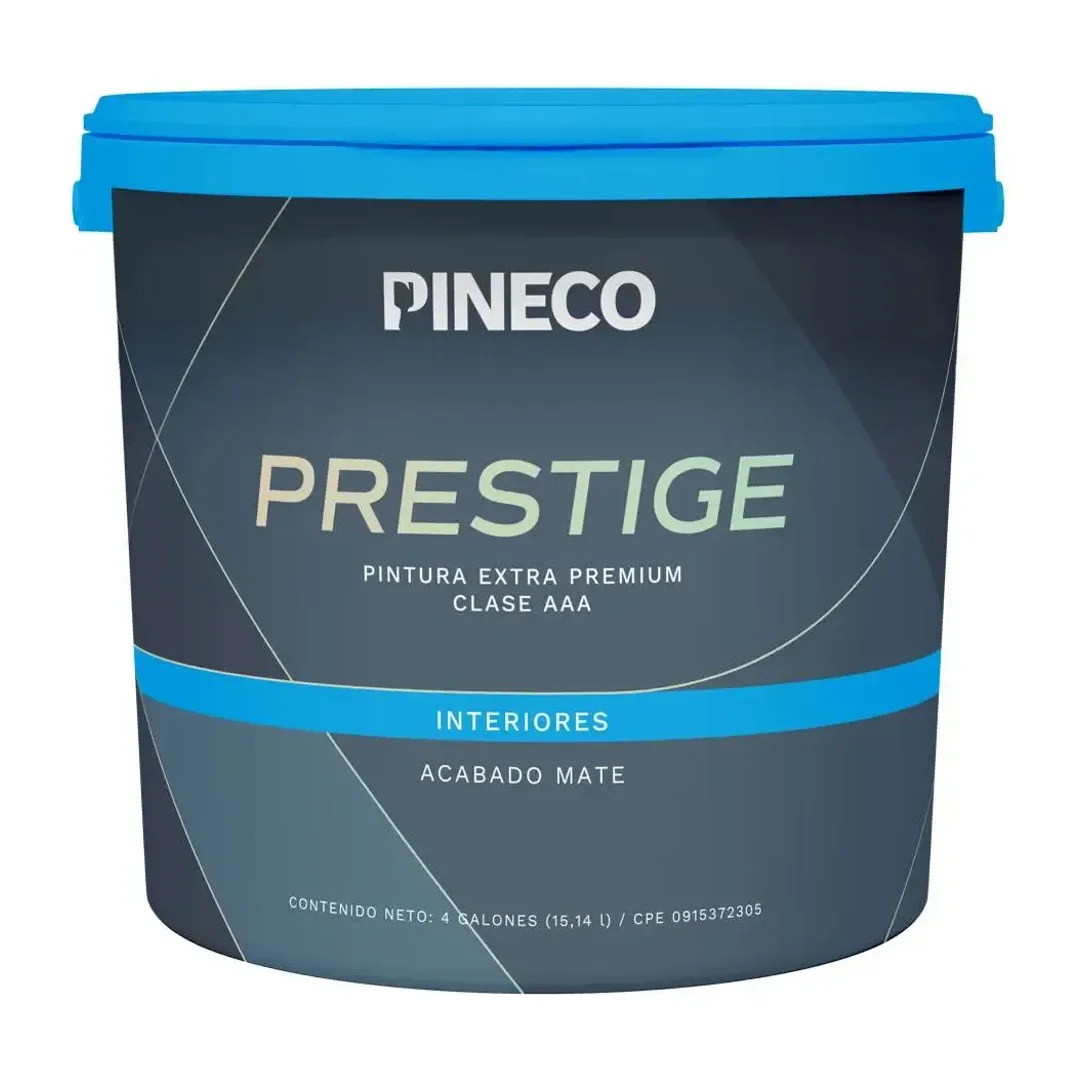
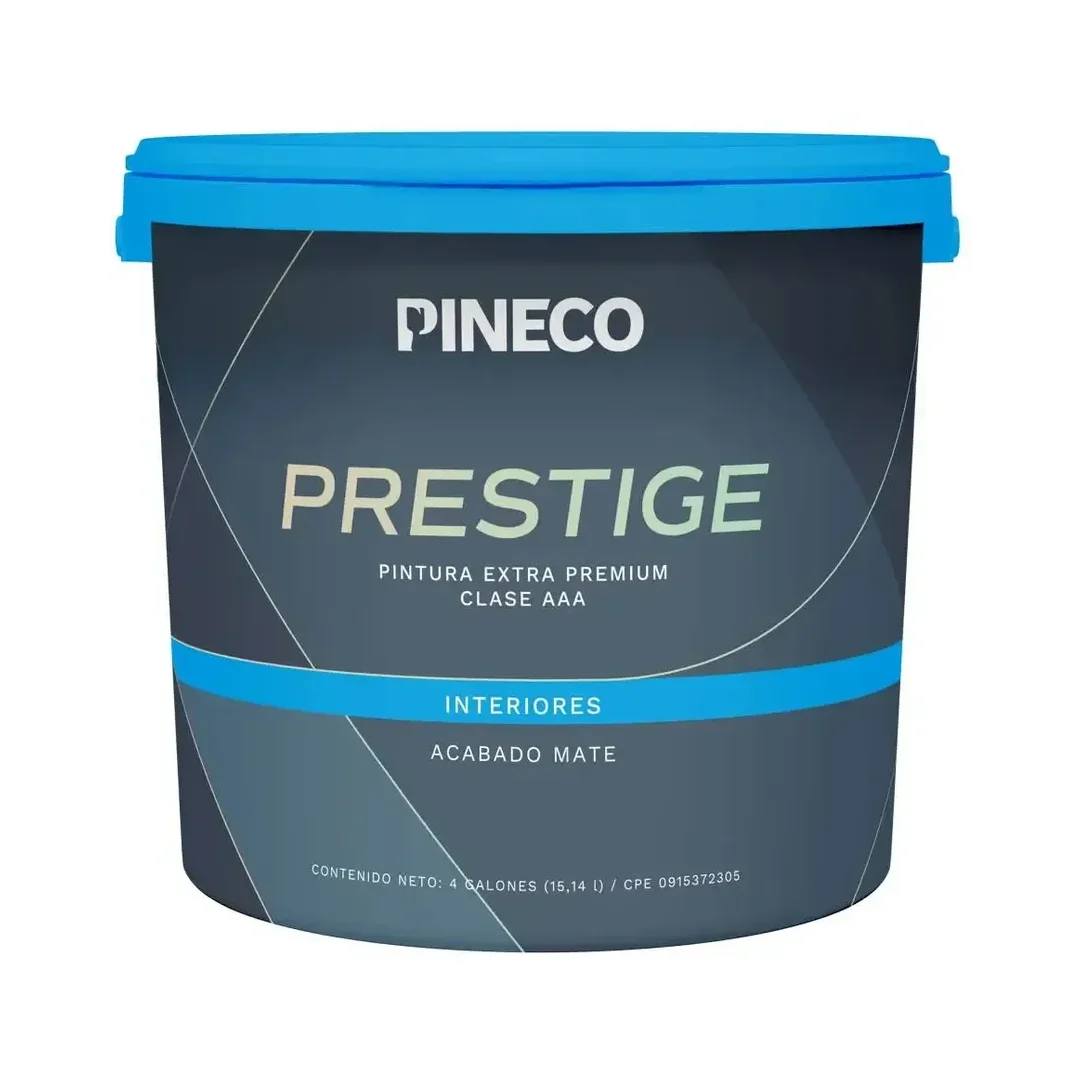
Fotos de pinturas Montana y Collet; Pineco rehechas sin recortes
El commit anterior solo movio las fotos de Pineco a public/productos/pineco/;
este trae el resto:
- Todas las fotos de pinturas rehechas desde las originales: envase completo,
  centrado en 1080x1080 con margen blanco.
- FOTOS_SAINT apunta a public/productos/pineco/ (con el mismo nombre, el
  navegador y el optimizador de imagenes seguian sirviendo la foto cortada).
- Montana y Collet por nombre (fotoPorNombre): Montafix en todos por acabado;
  ABC, Dekoral y AV-2000 solo en galon; Collet Prestigio y Ocasion en galon y tobo.

diff --git a/lib/agrupaciones.ts b/lib/agrupaciones.ts
@@ -22,17 +22,50 @@ export const FOTOS_SAINT: Record<string, string> = {
   "3M0015": "/productos/3M0015.webp", // mopa de pulir azul doble cara 8" 3M
   // Pinturas Pineco: fotos oficiales del empaque, una por producto y tamaño (galón o tobo). Los de 1/4 de galón, el
   // Prestige Gold, el Prestige mate en tobo y el Cerami-K siguen sin foto: no llegó la de su empaque.
-  PINECO014: "/productos/PINECO014.webp", // esmalte 2 en 1 acrílico DTM, galón
-  PINECO015: "/productos/PINECO015.webp", // Pípol clase B, galón
-  PINECO016: "/productos/PINECO016.webp", // Pípol clase B, tobo (4 galones)
-  PINECO011: "/productos/PINECO011.webp", // hidroesmalte Prestige clase A, galón
-  PINECO002: "/productos/PINECO002.webp", // Prestige clase A mate, galón
-  PINECO003: "/productos/PINECO003.webp", // Prestige clase A satinado, galón
-  PINECO001: "/productos/PINECO001.webp", // Prestige clase A mate, tobo (4 galones)
-  PINECO020: "/productos/PINECO020.webp", // esmalte 2 en 1 acrílico DTM, 1/4 de galón
-  PINECO021: "/productos/PINECO021.webp", // Cerami-K brillante, 1/4 de galón
-  PINECO019: "/productos/PINECO011.webp", // hidroesmalte 1/4 de galón: la foto del galón (pedido de persona B)
+  PINECO014: "/productos/pineco/PINECO014.webp", // esmalte 2 en 1 acrílico DTM, galón
+  PINECO015: "/productos/pineco/PINECO015.webp", // Pípol clase B, galón
+  PINECO016: "/productos/pineco/PINECO016.webp", // Pípol clase B, tobo (4 galones)
+  PINECO011: "/productos/pineco/PINECO011.webp", // hidroesmalte Prestige clase A, galón
+  PINECO002: "/productos/pineco/PINECO002.webp", // Prestige clase A mate, galón
+  PINECO003: "/productos/pineco/PINECO003.webp", // Prestige clase A satinado, galón
+  PINECO001: "/productos/pineco/PINECO001.webp", // Prestige clase A mate, tobo (4 galones)
+  PINECO020: "/productos/pineco/PINECO020.webp", // esmalte 2 en 1 acrílico DTM, 1/4 de galón
+  PINECO021: "/productos/pineco/PINECO021.webp", // Cerami-K brillante, 1/4 de galón
+  PINECO019: "/productos/pineco/PINECO011.webp", // hidroesmalte 1/4 de galón: la foto del galón (pedido de persona B)
 };
+
+/**
+ * Fotos de pinturas Montana por su NOMBRE (en Saint, "MONTANA" va solo en la marca): una por línea y acabado.
+ * Montafix: en TODOS los que digan Montafix, por su acabado (sin acabado, la brillante), pedido de persona B. Las demás
+ * líneas (ABC, AV-2000, Dekoral): solo en el galón; el tobo y el 1/4 de galón son otro empaque.
+ */
+const M = "/productos/montana/";
+export function fotoPorNombre(nombre: string, marca: string | null): string | undefined {
+  const n = nombre.toUpperCase();
+  if (/COLLET/i.test(marca ?? "") || /COLLET/.test(n)) return fotoCollet(n);
+  if (!/MONTANA/i.test(marca ?? "") && !/MONTANA/.test(n)) return undefined;
+  if (/MONTAFIX/.test(n)) return `${M}${/SATINAD/.test(n) ? "montafix-satinado" : /\bMATE\b/.test(n) ? "montafix-mate" : "montafix-brillante"}.webp`;
+  const galon = /\bGAL(ON)?\b|\bGALON\b/.test(n) && !/TOBO|CU[NÑ]ETE|1\/4|\b4 ?GAL/.test(n);
+  if (!galon) return undefined;
+  if (/\bABC\b/.test(n)) return `${M}abc-mate.webp`;
+  if (/DEKORAL/.test(n)) return `${M}${/SATINAD/.test(n) ? "dekoral-satinado" : "dekoral-mate"}.webp`;
+  if (/AV-? ?2000/.test(n)) {
+    if (/BIO/.test(n)) return `${M}av2000-bioprotecto.webp`;
+    if (/SEDA/.test(n)) return `${M}av2000-brillo-de-seda.webp`;
+    if (/\bEXT/.test(n)) return `${M}av2000-exterior-mate.webp`;
+    if (/\bINT/.test(n)) return `${M}av2000-interior-mate.webp`;
+  }
+  return undefined;
+}
+
+/** Collet: Blanco Prestigio (tipo A) y Blanco Ocasión (tipo B), cada uno en galón o en tobo. El 1/4 de galón no lleva foto. */
+function fotoCollet(n: string): string | undefined {
+  const linea = /PRESTIG/.test(n) ? "prestigio" : /OCASI/.test(n) ? "ocasion" : null;
+  if (!linea || /1\/4/.test(n)) return undefined;
+  if (/TOBO|CU[NÑ]ETE|PAILA|\b[45] ?GAL/.test(n)) return `/productos/collet/${linea}-tobo.webp`;
+  if (/\bGAL(ON)?\b/.test(n)) return `/productos/collet/${linea}-galon.webp`;
+  return undefined;
+}
 
 /** Cómo se dividen las medidas en el selector: milímetros/pulgadas, encastre del dado, o una sección propia que da la
  * regla de cada producto ("Punta redonda", "Rosca fina NF", 'Diámetro 1/4"'…). */
@@ -285,7 +318,7 @@ export function agrupar(lista: Producto[]): {
   const productos = lista.map((p) => {
     const reemplazo = reemplazos.get(p.id);
     if (reemplazo) return reemplazo;
-    const foto = FOTOS_SAINT[p.id];
+    const foto = FOTOS_SAINT[p.id] ?? fotoPorNombre(p.nombre, p.marca);
     return foto && !p.imagen ? { ...p, imagen: foto } : p;
   });
 

diff --git a/lib/__tests__/agrupaciones.test.ts b/lib/__tests__/agrupaciones.test.ts
@@ -1,5 +1,5 @@
 import { describe, expect, it } from "vitest";
-import { agrupar, clasificar, leerMedida, valorMedida } from "@/lib/agrupaciones";
+import { agrupar, clasificar, fotoPorNombre, leerMedida, valorMedida } from "@/lib/agrupaciones";
 import type { Producto } from "@/types/catalogo";
 
 // Nombres tal como vienen de Saint (Herramientas, 1171).
@@ -161,6 +161,26 @@ describe("agrupar", () => {
     expect(productos.find((x) => x.id === "3M0015")!.imagen).toBe("/productos/3M0015.webp");
   });
 
+  it("pinturas Montana por nombre: Montafix en todos por acabado; las demás solo en el galón", () => {
+    const f = (nombre: string) => fotoPorNombre(nombre, "MONTANA");
+    expect(f("BASE MONTAFIX 1/4 GAL")).toBe("/productos/montana/montafix-brillante.webp");
+    expect(f("MONTAFIX SATINADO BLANCO GALON")).toBe("/productos/montana/montafix-satinado.webp");
+    expect(f("ABC CAUCHO BLANCO GALON")).toBe("/productos/montana/abc-mate.webp");
+    expect(f("ABC CAUCHO BLANCO TOBO 4 GAL")).toBeUndefined();
+    expect(f("COLORANTE AMARILLO LFY 1791")).toBeUndefined();
+    expect(fotoPorNombre("ABC CAUCHO BLANCO GALON", "PINECO")).toBeUndefined();
+  });
+
+  it("pinturas Collet: Blanco Prestigio y Blanco Ocasión, en galón o tobo", () => {
+    const f = (nombre: string) => fotoPorNombre(nombre, "COLLET");
+    expect(f("COLLET PINTURA BLANCO PRESTIGIO GALON")).toBe("/productos/collet/prestigio-galon.webp");
+    expect(f("COLLET PINTURA BLANCO PRESTIGIO TOBO")).toBe("/productos/collet/prestigio-tobo.webp");
+    expect(f("COLLET PINTURA BLANCO OCASION GAL")).toBe("/productos/collet/ocasion-galon.webp");
+    expect(f("COLLET PINTURA BLANCO OCASION TOBO")).toBe("/productos/collet/ocasion-tobo.webp");
+    expect(f("COLLET PINTURA BLANCO OCASION 1/4 GALON")).toBeUndefined();
+    expect(f("COLLET PINTURA BROCAL AMARILLO GALON")).toBeUndefined();
+  });
+
   it("pinturas Pineco: cada foto solo en su línea y tamaño; el hidroesmalte 1/4 usa la del galón; Gold sin foto", () => {
     const pinturas = agrupar([
       p("PINECO015", 'PINECO PIPOL CLASE "B" GALON', 30, "PINECO"),
@@ -169,9 +189,9 @@ describe("agrupar", () => {
       p("PINECO010", "PINECO PRESTIGE GOLD CLASE A MATE GALON", 50, "PINECO"),
     ]).productos;
     const foto = (id: string) => pinturas.find((x) => x.id === id)!.imagen;
-    expect(foto("PINECO015")).toBe("/productos/PINECO015.webp");
-    expect(foto("PINECO016")).toBe("/productos/PINECO016.webp");
-    expect(foto("PINECO019")).toBe("/productos/PINECO011.webp");
+    expect(foto("PINECO015")).toBe("/productos/pineco/PINECO015.webp");
+    expect(foto("PINECO016")).toBe("/productos/pineco/PINECO016.webp");
+    expect(foto("PINECO019")).toBe("/productos/pineco/PINECO011.webp");
     expect(foto("PINECO010")).toBeNull();
   });
 });

diff --git a/CLAUDE.md b/CLAUDE.md
@@ -145,8 +145,9 @@ Next.js 16 (APIs distintas a las que conoces; consulta `node_modules/next/dist/d
 
 ## Registro de cambios
 Lo más reciente arriba. Formato: fecha · rama · quién · qué cambió y qué debe saber el compañero.
+- 2026-10-28 · `main` · persona B · **Fotos de pinturas Montana y Collet, y las de Pineco rehechas sin recortes.** (1) Todas las fotos de pinturas se rehicieron desde las originales: el envase COMPLETO (nada de tapa o fondo cortados), centrado en 1080×1080 con margen blanco amplio. (2) **Las de Pineco se movieron a `public/productos/pineco/`**: con el mismo nombre, el navegador y el optimizador de imágenes (también el de Vercel) seguían mostrando la foto vieja cortada. Si cambias una foto, cámbiale el nombre o la carpeta. (3) **Montana y Collet van por NOMBRE** (`fotoPorNombre` en `lib/agrupaciones.ts`, con pruebas; `FOTOS_SAINT` por código sigue mandando). Montana (`public/productos/montana/`): Montafix en TODOS los que digan Montafix, por acabado (pedido de persona B); ABC, Dekoral y AV-2000 exterior/interior/seda/bioprotecto solo en galón (los tobos son otro envase). Collet (`public/productos/collet/`): Prestigio "A" y Ocasión tipo "B", en galón o tobo; el resto de Collet (Deco Plus, esmaltes, brocal, cancha…) sigue sin foto. Hay fotos guardadas que ningún producto usa todavía: `montana/av2000-exterior-clasica`, `montana/av2000-exterior-mate-2`, `collet/*-tobo-y-galon`. Revisado en local con la lista real de productos.
 - 2026-10-28 · `main` · persona B (toca `app/muestra/page.tsx`, vitrina compartida) · **El deploy de Vercel se caía si Saint no respondía mientras compilaba:** `/muestra` se prerenderizaba pidiendo productos a Saint y con Saint caído lanzaba `ErrorSaint` → "Export encountered an error on /muestra" y el deploy fallaba (pasó con `eb3db09`). Ahora `/muestra` lleva `export const dynamic = "force-dynamic"` (se arma al abrirla). Probado: `npm run build` con Saint inalcanzable termina bien. Ojo: si una página nueva pide Saint al compilar, haz lo mismo o atrapa el error.
-- 2026-10-28 · `categorias` · persona B · **Fotos de las pinturas Pineco** (fotos oficiales del empaque, fondo pasado a blanco, 1080×1080 en `public/productos/PINECO0xx.webp`, por código en `FOTOS_SAINT` de `lib/agrupaciones.ts`, con prueba). Cada foto va solo en el producto de su línea y tamaño: DTM esmalte 2 en 1 galón (PINECO014), Pípol clase B galón (015) y tobo (016), Prestige hidroesmalte galón (011), Prestige mate galón (002) y tobo (001), Prestige satinado galón (003), DTM 1/4 de galón (020) y Cerami-K 1/4 de galón (021). el hidroesmalte 1/4 de galón (019) usa la misma foto del galón (pedido de persona B). **Sigue sin foto** (no llegó la de su empaque): Prestige Gold galón y tobo (010, 009). Las fotos de "Pineco PRO clase B+" no se usaron: ese producto no está en Saint.
+- 2026-10-28 · `categorias` · persona B · **Fotos de las pinturas Pineco** (fotos oficiales del empaque, fondo pasado a blanco, 1080×1080; hoy en `public/productos/pineco/PINECO0xx.webp`, por código en `FOTOS_SAINT` de `lib/agrupaciones.ts`, con prueba). Cada foto va solo en el producto de su línea y tamaño: DTM esmalte 2 en 1 galón (PINECO014), Pípol clase B galón (015) y tobo (016), Prestige hidroesmalte galón (011), Prestige mate galón (002) y tobo (001), Prestige satinado galón (003), DTM 1/4 de galón (020) y Cerami-K 1/4 de galón (021). el hidroesmalte 1/4 de galón (019) usa la misma foto del galón (pedido de persona B). **Sigue sin foto** (no llegó la de su empaque): Prestige Gold galón y tobo (010, 009). Las fotos de "Pineco PRO clase B+" no se usaron: ese producto no está en Saint.
 - 2026-10-28 · `main` · persona A (toca piezas de persona B: solo la navegación del panel, con su mismo estilo) · **La barra izquierda "Subcategoría" navega el árbol completo de Saint.** La API trae `instancias: [{ codigo, nombre, padre, codCategoria }]` (todos los niveles) y `codInstancia` en cada producto. (1) `lib/arbolSaint.ts` (nuevo, puro, con pruebas): arma el árbol sin las ramas vacías, la ruta y lo que muestra el panel. `lib/saint.ts` guarda `arbol` y, por tarjeta, en qué niveles está (`ancestrosListado`; un grupo de medidas cuenta en los de todas sus medidas). (2) **URL `?sub=CÓDIGO`** (`rutas.ts`): el nivel actual; `BuscarEnCategoria`, `SelectorOrden` y `Paginacion` lo conservan; `?subcategoria=Nombre` se traduce a su primer nivel. (3) **`FiltrosCategoria`** (mismo estilo de filas, raya roja y ✓): "Todas" / "Todo en [nivel]" arriba y las hijas con "›"; en un nivel, "← Volver a [nivel de arriba]" y la ruta "Construcción › … › actual" (cada parte se toca); en el último nivel, sus hermanas con la actual marcada. **Sin cantidades.** `FiltrosActivos` muestra el chip del nivel. (4) **Teléfono (`PanelFiltrosMovil`):** el panel "Filtrar" se queda abierto al bajar de nivel o volver (enlaces con `data-sigue-abierto`), se cierra al elegir un último nivel, y tiene un botón "Ver productos". (5) Evento `categoria_vista`: `subcategoria` es ahora el código de la instancia (cualquier nivel); `lib/eventos/servidor.ts` lo valida contra el árbol. (6) Acentos: toda palabra terminada en -CIÓN/-SIÓN y ~40 palabras más (`lib/nombresSaint.ts`). Revisado en Chrome (1280 y 390 px): Construcción hasta el 6.º nivel (Materiales de construcción › … › Amarilla gas), "Volver", "atrás" del navegador, página 2 y búsqueda dentro de un nivel; y las 10 categorías.
 - 2026-10-28 · `main` · persona A (decisión del dueño, hablada con persona B) · **Se revirtió el commit `60e8f35` de persona B** ("Reclasificar productos de Saint por nombre y agrupar más medidas"): se quitaron `lib/clasificacionSaint.ts`, `getMovidosSaint` y los grupos automáticos (`claveAutomatica`) de `lib/agrupaciones.ts`. **Regla del dueño: cada producto va en la categoría y subcategoría que dice Saint, sin moverlo por su nombre.** Si un producto está mal clasificado, se corrige en Saint, no en la web. Si se quieren de vuelta los grupos automáticos de medidas (no mueven productos de categoría), hay que traerlos aparte con su visto bueno.
 - 2026-10-28 · `main` · persona A (toca piezas de persona B: solo la fuente de datos y el nombre de Grifería) · **Compartido — TODAS las categorías vienen de Saint y se borraron los productos de ejemplo.** (1) **Mapa completo** en `lib/categoriasSaint.ts` (10 categorías, 11.777 productos; nunca el código 1, "POR ARREGLAR"). La lista de categorías pasó de `lib/mock/categorias.ts` a `lib/categorias.ts`. (2) **"Plomería" ahora es "Grifería"** (slug `griferia`): menú, banner (`CategoriaBanner`), columna del inicio, íconos, metadatos y `/muestra`; **`/categoria/plomeria` redirige (308) a `/categoria/griferia`** (`next.config.ts`). Los componentes conservan su nombre de archivo (`CategoryCardPlomeria`, `BannerPlomeria`) y su diseño: solo cambia el texto que muestran. (3) **Páginas de categoría de persona B:** NO cambió su diseño; cada una pide a Saint SOLO su categoría (`getCategoriaSaint`, <2 MB, caché de Next) y si una falla, las demás siguen. Sus subcategorías salen de Saint como en Herramientas (acentos nuevos en `lib/nombresSaint.ts`: construcción, químico, instalación, iluminación, desagüe, arquitectónicos, áreas, vehículos…). Íconos por subcategoría en `porCategoria.ts`. (4) **Índice** (buscador, "Te puede interesar", carrito, favoritos, producto): UN pedido con todas, en memoria, sin caché de Next (pesa 2,3 MB; pedirle caché escribía la URL con la clave en los registros). (5) **Se borró:** `lib/mock/` (87 productos, el catálogo de pruebas, 4 opiniones falsas y `destacadosMock`), 100 fotos de ejemplo de `public/productos/` (quedan `grupos/` y `3M0015.webp`, que son reales) y el camino de productos de `CATALOGO_API_URL`. (6) **Inicio:** "Nuestros recomendados", "Te puede interesar" (cliente nuevo) y los carruseles de Construcción y Hogar y jardín salen de `datos/destacados.json` (códigos de Saint, editable) con la mezcla automática del día de respaldo (`lib/destacados.ts`). `getMasVendidos` ya no existe. (7) **Calculadoras:** todos los `productoId` en `null` ("Consultar disponibilidad") hasta revisar con persona B los códigos propuestos (`docs/pendiente-buscador-servidor.md`). (8) **Pruebas** con una muestra fija de 366 productos reales (`lib/__tests__/datos/muestraSaint.json`); sinónimo nuevo "tor" = tornillo (así abrevia Saint). Revisado: las 10 categorías (subcategoría, página 2, producto), la redirección y una búsqueda por categoría.

diff --git a/public/productos/CREDITOS.md b/public/productos/CREDITOS.md
@@ -17,9 +17,9 @@ Fotos que pasó persona B para PROBAR los grupos de medidas (`lib/agrupaciones.t
 
 ## Pinturas Pineco (2026-10-28, persona B)
 
-Fotos oficiales del empaque que pasó persona B (fondo transparente pasado a blanco, 1080×1080). Cada una va SOLO en el producto de su línea y tamaño (`FOTOS_SAINT` en `lib/agrupaciones.ts`).
+Fotos oficiales del empaque que pasó persona B (fondo transparente pasado a blanco, envase completo con margen, 1080×1080), en `pineco/`. Cada una va SOLO en el producto de su línea y tamaño (`FOTOS_SAINT` en `lib/agrupaciones.ts`).
 
-| Archivo | Producto |
+| Archivo (en `pineco/`) | Producto |
 |---|---|
 | PINECO014.webp | PINECO ESMALTE 2 EN 1 ACRILICO DTM GALON (empaque "DTM Esmalte + Anticorrosivo", 3,785 L) |
 | PINECO015.webp | PINECO PIPOL CLASE "B" GALON (3,785 L) |
@@ -30,3 +30,18 @@ Fotos oficiales del empaque que pasó persona B (fondo transparente pasado a bla
 | PINECO001.webp | PINECO PRESTIGE CLASE A MATE TOBO (empaque Prestige interiores mate, 4 galones / 15,14 L) |
 | PINECO020.webp | PINECO ESMALTE 2 EN 1 ACRILICO DTM 1/4 (1/4 gal / 0,95 L) |
 | PINECO021.webp | PINECO CERAMI-K BRILLANTE 1/4 GALON (0,967 L) |
+
+## Pinturas Montana y Collet (2026-10-28, persona B)
+
+Fotos oficiales del empaque que pasó persona B (fondo pasado a blanco, envase completo con margen, 1080×1080). Van por NOMBRE del producto (`fotoPorNombre` en `lib/agrupaciones.ts`).
+
+| Archivo | Producto |
+|---|---|
+| montana/montafix-brillante.webp, -mate, -satinado | Todos los que digan MONTAFIX, según su acabado (sin acabado: brillante) |
+| montana/abc-mate.webp | ABC CAUCHO … GALON |
+| montana/dekoral-mate.webp, dekoral-satinado.webp | DEKORAL … GALON |
+| montana/av2000-exterior-mate.webp, -interior-mate, -brillo-de-seda, -bioprotecto | AV-2000 EXT/INT/SEDA/BIO … GALON |
+| montana/av2000-exterior-clasica.webp, av2000-exterior-mate-2.webp | Sin usar todavía (otras fotos de AV-2000 Exterior; la clásica con el fondo gris quitado) |
+| collet/prestigio-galon.webp, prestigio-tobo.webp | COLLET PRESTIGIO PINTURA "A" GALON / TOBO |
+| collet/ocasion-galon.webp, ocasion-tobo.webp | COLLET PINTURA OCASIÓN TIPO "B" GALON / TOBO |
+| collet/prestigio-tobo-y-galon.webp, ocasion-tobo-y-galon.webp | Sin usar todavía (tobo y galón juntos) |
